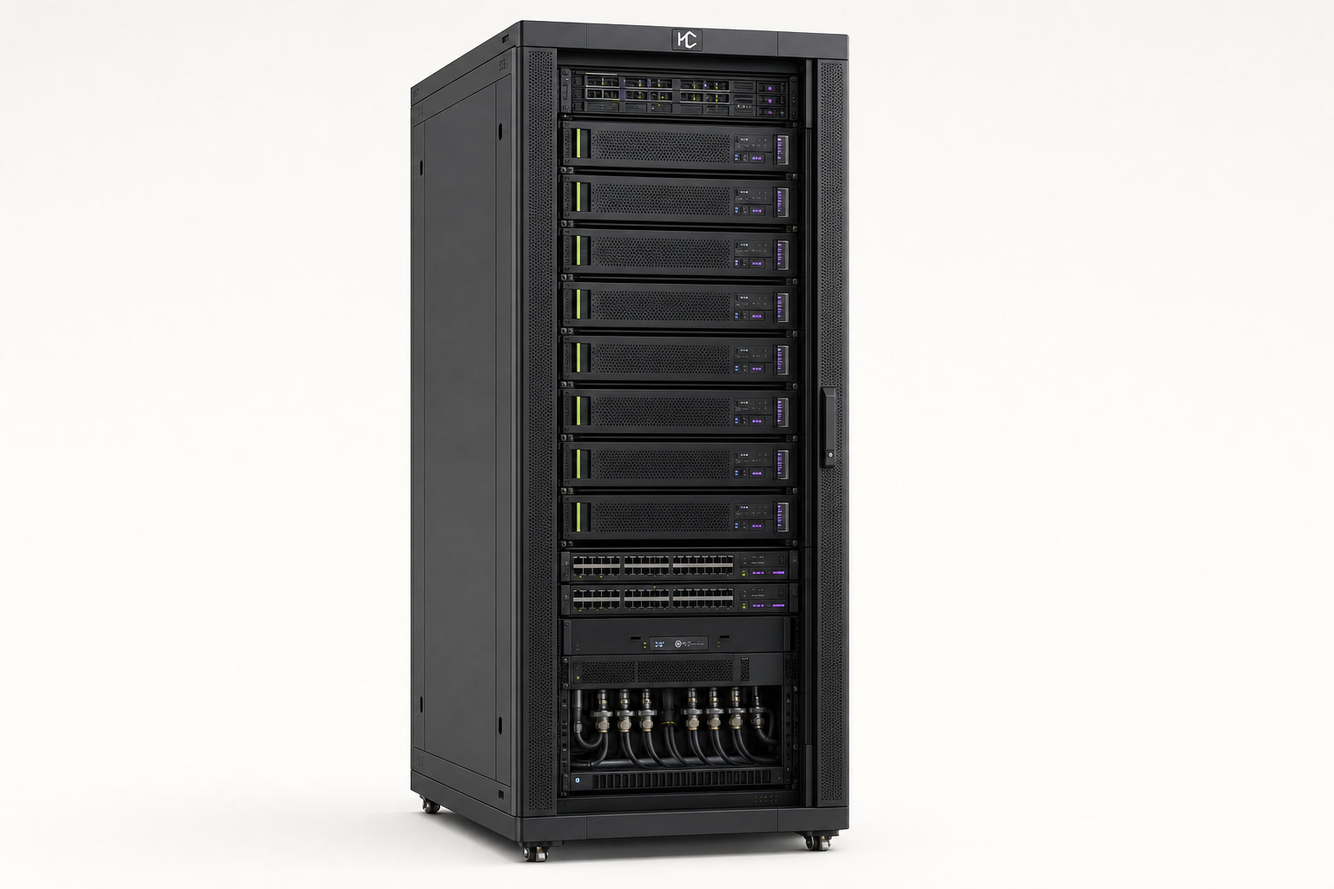
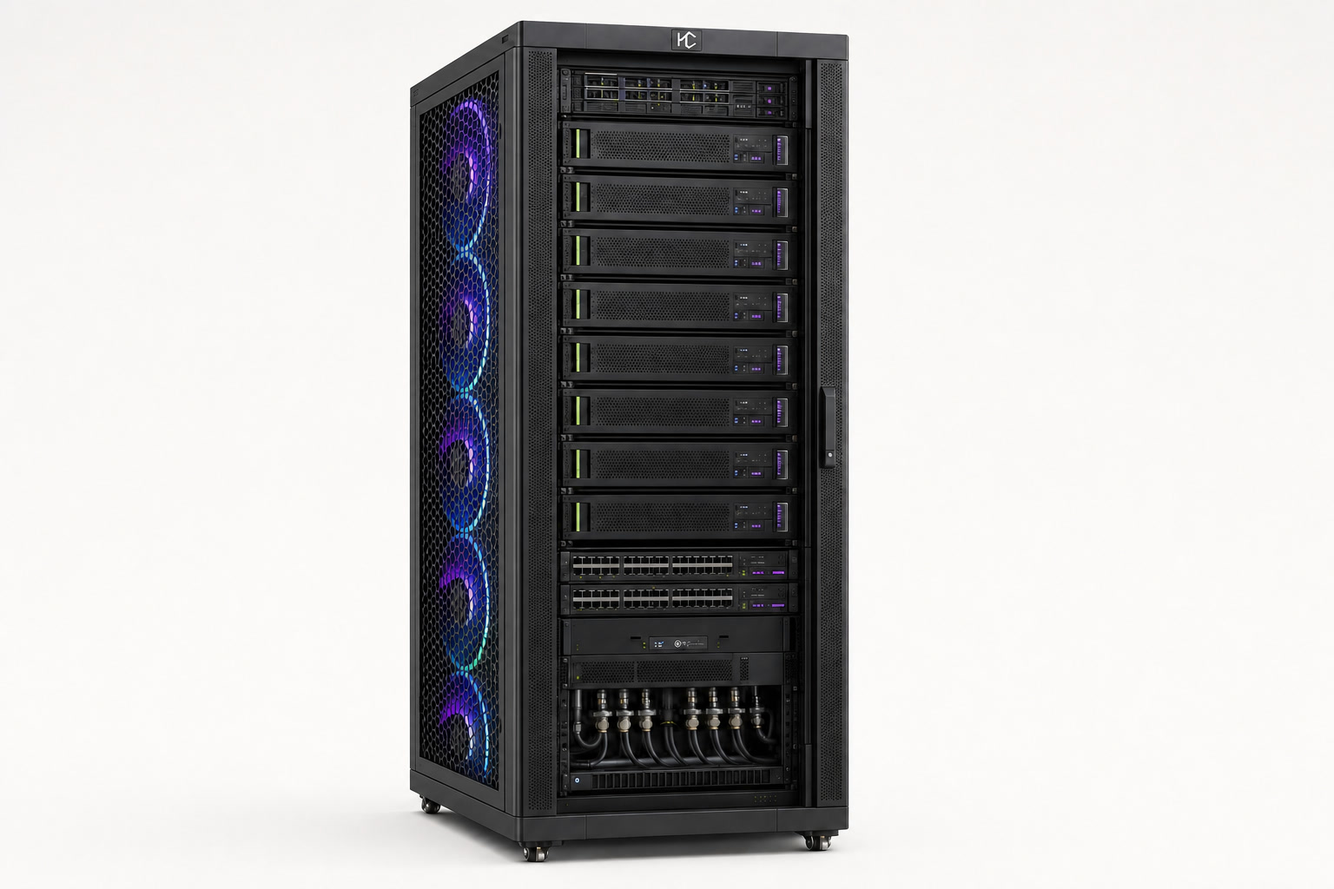
Add illuminated Galaxy cooling fans

diff --git a/bootstrap-studio/assets/style.css b/bootstrap-studio/assets/style.css
@@ -46,4 +46,4 @@
 @media(max-width:900px){.product-impact{padding:85px 24px}.product-impact-head{grid-template-columns:1fr;gap:24px}.product-impact-grid{grid-template-columns:1fr}.product-impact-grid article{min-height:240px;border-right:0;border-bottom:1px solid #1113;padding-left:0}.product-roadmap{grid-template-columns:1fr}.product-roadmap>div,.product-roadmap>a{min-height:150px}}
 .hardware-catalog,.nova-family{padding:120px 6vw;background:#e8e8e3;color:#09090a}.nova-family{background:#f2f1ec}.hardware-section-head{display:grid;grid-template-columns:190px 1.2fr .75fr;gap:5vw;align-items:start;margin-bottom:80px}.hardware-section-head>p{font:10px "Geist Mono";letter-spacing:.14em;color:#6d6e69}.hardware-section-head h2{font-size:clamp(48px,5.8vw,88px);line-height:.98;letter-spacing:-.065em;margin:0}.hardware-section-head>span{font-size:17px;line-height:1.75;color:#5e5f5a}.hardware-products{display:grid;grid-template-columns:repeat(2,1fr);gap:2px}.hardware-products article{background:#f7f7f3;display:flex;flex-direction:column}.hardware-image{aspect-ratio:1.45;background:#fff;overflow:hidden}.hardware-image img{width:100%;height:100%;object-fit:contain;padding:34px;display:block;transition:transform .45s}.hardware-products article:hover .hardware-image img{transform:scale(1.025)}.hardware-copy{padding:30px;display:flex;flex-direction:column;min-height:360px}.hardware-copy small{font:9px "Geist Mono";letter-spacing:.12em;color:#73746f}.hardware-copy h3{font-size:34px;margin:45px 0 15px}.hardware-copy p{color:#5e5f5a;line-height:1.65}.hardware-copy ul{padding:0;list-style:none;margin:25px 0}.hardware-copy li{border-top:1px solid #1112;padding:10px 0;font-size:12px}.hardware-copy a{margin-top:auto;color:#111;font-weight:650;font-size:12px}.hardware-compare{margin-top:110px}.hardware-compare .hardware-section-head{margin-bottom:55px}.hardware-compare table{width:100%;border-collapse:collapse;min-width:900px;background:#f7f7f3}.hardware-compare th,.hardware-compare td{text-align:left;border-top:1px solid #1113;padding:19px 18px;vertical-align:top}.hardware-compare thead th{font:10px "Geist Mono";letter-spacing:.08em;background:#111113;color:#f2f2ed}.hardware-compare tbody th{width:20%;font-size:13px}.hardware-compare tbody td{font-size:13px;color:#4f504c}.hardware-compare tbody tr:last-child>*{border-bottom:1px solid #1113}.hardware-disclaimer{font-size:11px;line-height:1.7;color:#777873;max-width:850px;margin:25px 0 0}.nova-family-images{display:grid;grid-template-columns:repeat(3,1fr);gap:2px}.nova-family-images figure{margin:0;background:#fff}.nova-family-images img{width:100%;height:350px;object-fit:contain;padding:46px;background:#fff;display:block}.nova-family-images figcaption{display:flex;justify-content:space-between;padding:22px 24px;border-top:1px solid #1112}.nova-family-images figcaption b{font-size:18px}.nova-family-images figcaption span{font-size:11px;color:#70716d}.nova-family .hardware-compare{margin-top:90px}
 @media(max-width:900px){.hardware-catalog,.nova-family{padding:85px 24px}.hardware-section-head{grid-template-columns:1fr;gap:24px;margin-bottom:50px}.hardware-products,.nova-family-images{grid-template-columns:1fr}.hardware-copy{min-height:330px}.hardware-compare{margin-top:75px}.nova-family-images figcaption{flex-direction:column;gap:8px}}
-.family-showcase{padding:120px 52px;background:#efefe9}.family-product-grid{display:grid;grid-template-columns:repeat(3,1fr);gap:2px}.family-product-grid-two{grid-template-columns:repeat(2,1fr)}.family-product-grid article{background:#fff}.family-product-image{height:380px;background:#fff;overflow:hidden}.family-product-image img{width:100%;height:100%;object-fit:contain;padding:38px;display:block;transition:transform .45s}.family-product-grid article:hover img{transform:scale(1.025)}.family-product-copy{padding:28px 30px 34px;border-top:1px solid #1112}.family-product-copy small{font:9px "Geist Mono";letter-spacing:.12em;color:#73746f}.family-product-copy h3{font-size:31px;line-height:1;margin:12px 0 16px}.family-product-copy p{font-size:14px;line-height:1.75;color:#555650;margin:0;max-width:560px}.family-showcase .hardware-compare{margin-top:90px}@media(max-width:900px){.family-showcase{padding:85px 24px}.family-product-grid,.family-product-grid-two{grid-template-columns:1fr}.family-product-image{height:290px}.family-product-image img{padding:28px}.nova-family-images img{height:260px;padding:30px}.hardware-image img{padding:24px}}.studio-hardware-detail-hero{background:#09090a}.studio-hardware-detail-hero .studio-visual{left:42%;background:#f6f5f0}.studio-hardware-detail-hero .studio-visual img{width:100%;height:100%;min-height:0;max-height:none;object-fit:contain;object-position:center;padding:64px 4vw 54px 2vw;filter:none}.studio-hardware-detail-hero .studio-visual:after{background:linear-gradient(90deg,#09090a 0%,#09090ad9 7%,#09090a3b 22%,transparent 38%)}.studio-hardware-detail-hero .studio-hero{padding-right:49%;background:linear-gradient(90deg,#09090a 0%,#09090af5 46%,#09090a99 63%,transparent 78%)}.studio-hardware-detail-hero .studio-hero h1{font-size:clamp(68px,8.5vw,132px);line-height:1.04;white-space:nowrap}.studio-hardware-detail-hero .studio-hero>p:last-child{max-width:560px}@media(max-width:900px){.studio-hardware-detail-hero .studio-visual{left:30%}.studio-hardware-detail-hero .studio-visual img{padding:80px 18px 48px 22%}.studio-hardware-detail-hero .studio-hero{padding-right:12%;background:linear-gradient(90deg,#09090afa 0%,#09090ad8 48%,#09090a55 82%,transparent 100%)}.studio-hardware-detail-hero .studio-hero h1{font-size:clamp(52px,13vw,88px);white-space:normal}}.product-logo-badge-rule{display:none}.hardware-image,.family-product-image,.nova-family-images figure{position:relative}.hardware-image:before,.family-product-image:before,.nova-family-images figure:before,.studio-hardware-detail-hero .studio-visual:before{content:"";position:absolute;z-index:4;width:52px;height:52px;top:22px;left:22px;border-radius:2px;background:#0d0d0e url("brand/logo-1.0.svg") center/34px 34px no-repeat;box-shadow:0 8px 24px #0002}.studio-hardware-detail-hero .studio-visual:before{top:100px;left:auto;right:32px;width:58px;height:58px;background-size:38px 38px}@media(max-width:900px){.hardware-image:before,.family-product-image:before,.nova-family-images figure:before{width:44px;height:44px;top:15px;left:15px;background-size:28px 28px}.studio-hardware-detail-hero .studio-visual:before{top:88px;right:18px;width:48px;height:48px;background-size:30px 30px}}.nav-software{position:relative}.nav-software-trigger{display:flex;align-items:center;gap:6px}.nav-software-trigger>span{font-size:12px;color:var(--acid);transition:transform .2s}.nav-software:hover .nav-software-trigger>span,.nav-software:focus-within .nav-software-trigger>span{transform:rotate(180deg)}.nav-software-menu{position:fixed;z-index:40;top:76px;left:0;right:0;padding:0 3.4vw;background:#09090afc;border-top:1px solid #ffffff26;border-bottom:1px solid #ffffff26;box-shadow:0 40px 90px #000b;display:grid;grid-template-columns:minmax(250px,.8fr) minmax(600px,2fr) minmax(230px,.7fr);opacity:0;visibility:hidden;transform:translateY(-12px);transition:opacity .18s,transform .18s,visibility .18s;backdrop-filter:blur(22px);-webkit-backdrop-filter:blur(22px)}.nav-software-menu:before{content:"";position:absolute;left:0;right:0;top:-30px;height:30px}.nav-software:hover .nav-software-menu,.nav-software:focus-within .nav-software-menu{opacity:1;visibility:visible;transform:none}.software-mega-intro{padding:44px 3.4vw 42px 0;border-right:1px solid #ffffff20}.software-mega-intro small,.software-mega-side>small{font:9px "Geist Mono";letter-spacing:.15em;color:var(--acid)}.software-mega-intro h2{font-size:clamp(36px,3.8vw,58px);line-height:.96;letter-spacing:-.06em;margin:27px 0}.software-mega-intro p,.software-mega-side p{font-size:12px;line-height:1.65;color:#92938f}.software-mega-intro>a,.software-mega-side>a{display:inline-block;margin-top:25px;font-size:10px;color:var(--acid);border-bottom:1px solid var(--acid);padding-bottom:6px}.software-mega-grid{display:grid;grid-template-columns:repeat(3,1fr);grid-template-rows:repeat(2,1fr)}.software-mega-grid>a{padding:28px 24px;border-right:1px solid #ffffff20;border-bottom:1px solid #ffffff20;display:flex;flex-direction:column;min-height:145px;color:#f0f1eb}.software-mega-grid>a:nth-child(n+4){border-bottom:0}.software-mega-grid>a:hover{background:#161618}.software-mega-grid span{font:9px "Geist Mono";color:#696a66}.software-mega-grid b{font-size:17px;margin:auto 0 10px}.software-mega-grid small{font-size:10px;line-height:1.45;color:#92938f}.software-mega-grid>a:hover b{color:var(--acid)}.software-mega-side{padding:42px 0 36px 28px}.software-mega-side h3{font-size:22px;line-height:1.18;margin:44px 0 16px}.software-manifesto,.software-stack-section,.software-capability,.software-kernel,.software-runtime,.software-tools,.software-deploy,.software-paths,.software-resources{padding:120px 6vw}.software-section-head{display:grid;grid-template-columns:180px 1.22fr .78fr;gap:5vw;align-items:start;margin-bottom:80px}.software-section-head>p,.software-lead>p,.software-resources>div:first-child>p{font:10px "Geist Mono";letter-spacing:.14em;color:#747570}.software-section-head h2,.software-lead h2,.software-resources>div:first-child h2{font-size:clamp(48px,5.9vw,90px);line-height:.98;letter-spacing:-.065em;margin:0}.software-section-head>span,.software-lead>span{font-size:17px;line-height:1.75;color:#61625e}.software-manifesto{background:#f0efe9;color:#0b0b0c}.software-lead{display:grid;grid-template-columns:180px 1.22fr .78fr;gap:5vw;align-items:start}.software-values{display:grid;grid-template-columns:repeat(4,1fr);margin-top:95px;border-top:1px solid #1113;border-bottom:1px solid #1113}.software-values article{min-height:310px;padding:28px;border-right:1px solid #1113;display:flex;flex-direction:column}.software-values article:first-child{padding-left:0}.software-values article:last-child{border-right:0}.software-values b{font:10px "Geist Mono";color:#777}.software-values h3{font-size:25px;margin:auto 0 18px}.software-values p{font-size:13px;line-height:1.7;color:#60615d}.software-stack-section{background:#111113;color:#f0f1eb}.software-stack-section .software-section-head>span{color:#a6a7a2}.software-stack-map{max-width:1160px;margin:auto;display:grid;gap:2px}.stack-input,.stack-hardware{display:flex;align-items:center;gap:10px;flex-wrap:wrap;padding:22px 25px;background:#242427}.stack-input b{font:10px "Geist Mono";letter-spacing:.12em;color:var(--acid);margin-right:auto}.stack-input span{font-size:11px;padding:9px 13px;border:1px solid #ffffff2b}.stack-layer-grid{display:grid;grid-template-columns:1fr 1fr;gap:2px}.stack-layer{padding:28px;background:#1a1a1d;border:1px solid #ffffff08}.stack-layer:hover{background:#202024}.stack-layer small{font:9px "Geist Mono";letter-spacing:.13em;color:var(--acid)}.stack-layer h3{font-size:28px;margin:40px 0 12px}.stack-layer p{font-size:13px;line-height:1.65;color:#9c9d98;max-width:580px}.stack-compiler{background:linear-gradient(110deg,#26212d,#171719)}.stack-system{text-align:center;padding:17px;background:#d8ff36;color:#09090a}.stack-system b{font:10px "Geist Mono";letter-spacing:.16em}.stack-hardware{padding:0;gap:2px;background:transparent}.stack-hardware span{flex:1;padding:24px;text-align:center;background:#2a2a2d;font:10px "Geist Mono";letter-spacing:.1em}.software-capability{background:#e8e8e3;color:#0b0b0c}.compiler-flow{display:grid;grid-template-columns:1fr auto 1fr auto 1fr auto 1fr;align-items:stretch}.compiler-flow>div{padding:28px 24px;background:#f7f7f3;min-height:240px;display:flex;flex-direction:column}.compiler-flow>i{font-style:normal;font-size:28px;align-self:center;padding:12px;color:#73746f}.compiler-flow b{font:10px "Geist Mono";color:#777}.compiler-flow h3{font-size:23px;margin:auto 0 13px}.compiler-flow p,.compiler-details p{font-size:12px;line-height:1.65;color:#62635f}.compiler-details{display:grid;grid-template-columns:repeat(3,1fr);margin-top:2px}.compiler-details article{padding:30px;background:#dcdcd6;border-right:2px solid #e8e8e3}.compiler-details h3{font-size:20px;margin:0 0 15px}.software-dual{display:grid;grid-template-columns:1fr 1fr;background:#0c0c0d;color:#f0f1eb}.software-copy,.software-code{padding:110px 6vw}.software-copy>p{font:10px "Geist Mono";letter-spacing:.14em;color:var(--acid)}.software-copy h2{font-size:clamp(46px,5.2vw,78px);line-height:1;letter-spacing:-.06em;margin:45px 0}.software-copy>span{font-size:16px;line-height:1.75;color:#b2b3ae}.software-copy ul{padding:0;margin:46px 0 0;list-style:none;border-top:1px solid #ffffff27}.software-copy li{padding:17px 0;border-bottom:1px solid #ffffff27;font-size:12px;color:#b5b6b1}.software-code{background:#17171a;display:flex;flex-direction:column;justify-content:center}.code-head{display:flex;justify-content:space-between;padding:15px 18px;background:#252529;border-bottom:1px solid #ffffff25}.code-head span,.code-head b{font:9px "Geist Mono";letter-spacing:.12em}.code-head b{color:var(--acid)}.software-code pre{margin:0;padding:32px;background:#111113;overflow:auto}.software-code code{font:14px/1.8 "Geist Mono",monospace;color:#d9dad5}.software-code small{margin-top:16px;color:#777;font-size:10px;line-height:1.5}.software-kernel{background:#f2f1ec;color:#0b0b0c}.kernel-pipeline{display:grid;grid-template-columns:1fr 90px 1fr 90px 1fr;align-items:center}.kernel-pipeline article{min-height:280px;padding:30px;background:#fff;display:flex;flex-direction:column}.kernel-pipeline article>b{font:10px "Geist Mono";letter-spacing:.14em;color:#777}.kernel-pipeline h3{font-size:24px;margin:auto 0 15px}.kernel-pipeline p{font-size:13px;line-height:1.7;color:#62635f}.kernel-pipeline>i{height:1px;background:#1116;position:relative}.kernel-pipeline>i:after{content:"";position:absolute;right:0;top:-4px;border-left:8px solid #1116;border-top:4px solid transparent;border-bottom:4px solid transparent}.kernel-levels{display:grid;grid-template-columns:repeat(3,1fr);margin-top:70px;background:#101012;color:#f0f1eb}.kernel-levels>div{min-height:250px;padding:28px;border-right:1px solid #ffffff24}.kernel-levels small{font:9px "Geist Mono";color:var(--acid);letter-spacing:.12em}.kernel-levels h3{font-size:25px;margin:65px 0 15px}.kernel-levels p{font-size:12px;line-height:1.65;color:#9d9e99}.software-runtime{background:#202023;color:#f0f1eb}.software-runtime .software-section-head>span{color:#aaa}.runtime-grid{display:grid;grid-template-columns:repeat(3,1fr);gap:2px}.runtime-grid article{min-height:285px;padding:30px;background:#151517;display:flex;flex-direction:column}.runtime-grid span{font:9px "Geist Mono";letter-spacing:.14em;color:var(--acid)}.runtime-grid h3{font-size:24px;margin:auto 0 15px}.runtime-grid p{font-size:12px;line-height:1.7;color:#9fa09b}.software-tools{background:#e9e9e4;color:#0b0b0c}.tools-console{display:grid;grid-template-columns:240px 1fr;background:#111113;color:#f0f1eb;min-height:470px}.console-sidebar{padding:25px;border-right:1px solid #ffffff20;display:flex;flex-direction:column;gap:8px}.console-sidebar b{font:10px "Geist Mono";color:var(--acid);margin-bottom:28px}.console-sidebar span{font-size:11px;padding:12px;color:#8f908b}.console-sidebar span.active{background:#29292d;color:#fff}.console-main{padding:45px;display:flex;flex-direction:column;justify-content:center}.graph-nodes{display:flex;align-items:center;justify-content:center}.graph-nodes span{padding:18px 21px;border:1px solid #d8ff3677;font:10px "Geist Mono"}.graph-nodes i{width:48px;height:1px;background:#d8ff3655}.timeline{height:46px;margin:70px 0 55px;display:flex;gap:3px;align-items:center;border-top:1px solid #ffffff18;border-bottom:1px solid #ffffff18}.timeline b{height:12px;background:linear-gradient(90deg,#d8ff36,#a28bff)}.console-metrics{display:grid;grid-template-columns:repeat(3,1fr);gap:2px}.console-metrics>div{padding:18px;background:#1e1e21}.console-metrics small{font:8px "Geist Mono";color:#888}.console-metrics strong{display:block;font-size:30px;margin:15px 0}.console-metrics span{font-size:9px;color:#777}.tool-cards{display:grid;grid-template-columns:repeat(4,1fr);margin-top:2px}.tool-cards article{padding:27px;background:#f7f7f3;border-right:2px solid #e9e9e4}.tool-cards h3{font-size:20px;margin:0 0 30px}.tool-cards p{font-size:12px;line-height:1.65;color:#62635f}.software-deploy{background:#101012;color:#f0f1eb}.software-deploy .software-section-head>span{color:#aaa}.deploy-flow{display:grid;grid-template-columns:repeat(4,1fr)}.deploy-flow article{min-height:310px;padding:28px;border:1px solid #ffffff22;border-right:0;display:flex;flex-direction:column}.deploy-flow article:last-child{border-right:1px solid #ffffff22}.deploy-flow b{font:10px "Geist Mono";color:var(--acid)}.deploy-flow h3{font-size:23px;margin:auto 0 15px}.deploy-flow p{font-size:12px;line-height:1.65;color:#9fa09b}.deploy-targets{display:grid;grid-template-columns:repeat(3,1fr);margin-top:75px}.deploy-targets>div{padding:30px;background:#1c1c1f;border-right:2px solid #101012}.deploy-targets small{font:9px "Geist Mono";color:var(--acid)}.deploy-targets h3{font-size:25px;margin:45px 0 14px}.deploy-targets p{font-size:12px;line-height:1.65;color:#9fa09b}.software-paths{background:#f0efe9;color:#0b0b0c}.software-paths>div:last-child{display:grid;grid-template-columns:repeat(4,1fr)}.software-paths article{min-height:330px;padding:28px;border-top:1px solid #1113;border-bottom:1px solid #1113;border-right:1px solid #1113;display:flex;flex-direction:column}.software-paths article:first-child{padding-left:0}.software-paths span{font:9px "Geist Mono";color:#777}.software-paths h3{font-size:24px;margin:auto 0 16px}.software-paths p{font-size:12px;line-height:1.65;color:#62635f}.software-paths b{font:10px "Geist Mono";color:#676863;margin-top:20px}.software-resources{background:#d8ff36;color:#09090a;display:grid;grid-template-columns:.85fr 1.25fr;gap:7vw}.software-resources>div:first-child h2{font-size:clamp(42px,4.8vw,72px);margin-top:38px}.resource-table>div{display:grid;grid-template-columns:1fr auto;gap:12px 30px;padding:24px 0;border-bottom:1px solid #1115}.resource-table b{font-size:17px}.resource-table span{font:9px "Geist Mono";padding:7px 10px;border:1px solid #1115}.resource-table p{grid-column:1/-1;font-size:12px;line-height:1.6;color:#45463f}.software-resources>a{grid-column:2;justify-self:start;font-size:11px;border-bottom:1px solid #111;padding-bottom:6px}.software-faq{background:#e8e8e3;color:#0b0b0c}@media(max-width:1100px){.nav-software-menu{grid-template-columns:.75fr 2fr}.software-mega-side{display:none}.software-values,.software-paths>div:last-child{grid-template-columns:repeat(2,1fr)}.compiler-flow{grid-template-columns:1fr 40px 1fr}.compiler-flow>i:nth-of-type(2),.compiler-flow>i:nth-of-type(2)+div,.compiler-flow>i:nth-of-type(3),.compiler-flow>i:nth-of-type(3)+div{margin-top:2px}.runtime-grid{grid-template-columns:repeat(2,1fr)}.tool-cards,.deploy-flow{grid-template-columns:repeat(2,1fr)}}@media(max-width:900px){.nav-software-menu{display:none}.software-manifesto,.software-stack-section,.software-capability,.software-kernel,.software-runtime,.software-tools,.software-deploy,.software-paths,.software-resources{padding:85px 24px}.software-section-head,.software-lead{grid-template-columns:1fr;gap:24px;margin-bottom:55px}.software-values,.software-paths>div:last-child,.compiler-details,.runtime-grid,.tool-cards,.deploy-flow,.deploy-targets{grid-template-columns:1fr}.software-values article,.software-paths article{min-height:235px;padding-left:0;border-right:0}.stack-layer-grid,.stack-hardware{grid-template-columns:1fr}.stack-hardware{display:grid}.compiler-flow{grid-template-columns:1fr}.compiler-flow>i{transform:rotate(90deg);justify-self:center}.software-dual{grid-template-columns:1fr}.software-copy,.software-code{padding:80px 24px}.kernel-pipeline{grid-template-columns:1fr}.kernel-pipeline>i{height:55px;width:1px;justify-self:center}.kernel-pipeline>i:after{right:-4px;top:auto;bottom:0;border-top:8px solid #1116;border-left:4px solid transparent;border-right:4px solid transparent;border-bottom:0}.kernel-levels{grid-template-columns:1fr}.kernel-levels>div{border-right:0;border-bottom:1px solid #ffffff24}.tools-console{grid-template-columns:1fr}.console-sidebar{display:none}.console-main{padding:30px 18px}.graph-nodes span{padding:13px 9px;font-size:8px}.graph-nodes i{width:18px}.console-metrics{grid-template-columns:1fr}.software-resources{grid-template-columns:1fr}.software-resources>a{grid-column:1}.software-section-nav{justify-content:flex-start}}.galaxy-hardware .family-product-copy h3{color:#0b0b0c}.galaxy-hardware .hardware-compare tbody th{color:#0b0b0c;font-weight:650}.family-showcase{color:#0b0b0c}
+.family-showcase{padding:120px 52px;background:#efefe9}.family-product-grid{display:grid;grid-template-columns:repeat(3,1fr);gap:2px}.family-product-grid-two{grid-template-columns:repeat(2,1fr)}.family-product-grid article{background:#fff}.family-product-image{height:380px;background:#fff;overflow:hidden}.family-product-image img{width:100%;height:100%;object-fit:contain;padding:38px;display:block;transition:transform .45s}.family-product-grid article:hover img{transform:scale(1.025)}.family-product-copy{padding:28px 30px 34px;border-top:1px solid #1112}.family-product-copy small{font:9px "Geist Mono";letter-spacing:.12em;color:#73746f}.family-product-copy h3{font-size:31px;line-height:1;margin:12px 0 16px}.family-product-copy p{font-size:14px;line-height:1.75;color:#555650;margin:0;max-width:560px}.family-showcase .hardware-compare{margin-top:90px}@media(max-width:900px){.family-showcase{padding:85px 24px}.family-product-grid,.family-product-grid-two{grid-template-columns:1fr}.family-product-image{height:290px}.family-product-image img{padding:28px}.nova-family-images img{height:260px;padding:30px}.hardware-image img{padding:24px}}.studio-hardware-detail-hero{background:#09090a}.studio-hardware-detail-hero .studio-visual{left:42%;background:#f6f5f0}.studio-hardware-detail-hero .studio-visual img{width:100%;height:100%;min-height:0;max-height:none;object-fit:contain;object-position:center;padding:64px 4vw 54px 2vw;filter:none}.studio-hardware-detail-hero .studio-visual:after{background:linear-gradient(90deg,#09090a 0%,#09090ad9 7%,#09090a3b 22%,transparent 38%)}.studio-hardware-detail-hero .studio-hero{padding-right:49%;background:linear-gradient(90deg,#09090a 0%,#09090af5 46%,#09090a99 63%,transparent 78%)}.studio-hardware-detail-hero .studio-hero h1{font-size:clamp(68px,8.5vw,132px);line-height:1.04;white-space:nowrap}.studio-hardware-detail-hero .studio-hero>p:last-child{max-width:560px}@media(max-width:900px){.studio-hardware-detail-hero .studio-visual{left:30%}.studio-hardware-detail-hero .studio-visual img{padding:80px 18px 48px 22%}.studio-hardware-detail-hero .studio-hero{padding-right:12%;background:linear-gradient(90deg,#09090afa 0%,#09090ad8 48%,#09090a55 82%,transparent 100%)}.studio-hardware-detail-hero .studio-hero h1{font-size:clamp(52px,13vw,88px);white-space:normal}}.product-logo-badge-rule{display:none}.hardware-image,.family-product-image,.nova-family-images figure{position:relative}.hardware-image:before,.family-product-image:before,.nova-family-images figure:before,.studio-hardware-detail-hero .studio-visual:before{content:"";position:absolute;z-index:4;width:52px;height:52px;top:22px;left:22px;border-radius:2px;background:#0d0d0e url("brand/logo-1.0.svg") center/34px 34px no-repeat;box-shadow:0 8px 24px #0002}.studio-hardware-detail-hero .studio-visual:before{top:100px;left:auto;right:32px;width:58px;height:58px;background-size:38px 38px}@media(max-width:900px){.hardware-image:before,.family-product-image:before,.nova-family-images figure:before{width:44px;height:44px;top:15px;left:15px;background-size:28px 28px}.studio-hardware-detail-hero .studio-visual:before{top:88px;right:18px;width:48px;height:48px;background-size:30px 30px}}.nav-software{position:relative}.nav-software-trigger{display:flex;align-items:center;gap:6px}.nav-software-trigger>span{font-size:12px;color:var(--acid);transition:transform .2s}.nav-software:hover .nav-software-trigger>span,.nav-software:focus-within .nav-software-trigger>span{transform:rotate(180deg)}.nav-software-menu{position:fixed;z-index:40;top:76px;left:0;right:0;padding:0 3.4vw;background:#09090afc;border-top:1px solid #ffffff26;border-bottom:1px solid #ffffff26;box-shadow:0 40px 90px #000b;display:grid;grid-template-columns:minmax(250px,.8fr) minmax(600px,2fr) minmax(230px,.7fr);opacity:0;visibility:hidden;transform:translateY(-12px);transition:opacity .18s,transform .18s,visibility .18s;backdrop-filter:blur(22px);-webkit-backdrop-filter:blur(22px)}.nav-software-menu:before{content:"";position:absolute;left:0;right:0;top:-30px;height:30px}.nav-software:hover .nav-software-menu,.nav-software:focus-within .nav-software-menu{opacity:1;visibility:visible;transform:none}.software-mega-intro{padding:44px 3.4vw 42px 0;border-right:1px solid #ffffff20}.software-mega-intro small,.software-mega-side>small{font:9px "Geist Mono";letter-spacing:.15em;color:var(--acid)}.software-mega-intro h2{font-size:clamp(36px,3.8vw,58px);line-height:.96;letter-spacing:-.06em;margin:27px 0}.software-mega-intro p,.software-mega-side p{font-size:12px;line-height:1.65;color:#92938f}.software-mega-intro>a,.software-mega-side>a{display:inline-block;margin-top:25px;font-size:10px;color:var(--acid);border-bottom:1px solid var(--acid);padding-bottom:6px}.software-mega-grid{display:grid;grid-template-columns:repeat(3,1fr);grid-template-rows:repeat(2,1fr)}.software-mega-grid>a{padding:28px 24px;border-right:1px solid #ffffff20;border-bottom:1px solid #ffffff20;display:flex;flex-direction:column;min-height:145px;color:#f0f1eb}.software-mega-grid>a:nth-child(n+4){border-bottom:0}.software-mega-grid>a:hover{background:#161618}.software-mega-grid span{font:9px "Geist Mono";color:#696a66}.software-mega-grid b{font-size:17px;margin:auto 0 10px}.software-mega-grid small{font-size:10px;line-height:1.45;color:#92938f}.software-mega-grid>a:hover b{color:var(--acid)}.software-mega-side{padding:42px 0 36px 28px}.software-mega-side h3{font-size:22px;line-height:1.18;margin:44px 0 16px}.software-manifesto,.software-stack-section,.software-capability,.software-kernel,.software-runtime,.software-tools,.software-deploy,.software-paths,.software-resources{padding:120px 6vw}.software-section-head{display:grid;grid-template-columns:180px 1.22fr .78fr;gap:5vw;align-items:start;margin-bottom:80px}.software-section-head>p,.software-lead>p,.software-resources>div:first-child>p{font:10px "Geist Mono";letter-spacing:.14em;color:#747570}.software-section-head h2,.software-lead h2,.software-resources>div:first-child h2{font-size:clamp(48px,5.9vw,90px);line-height:.98;letter-spacing:-.065em;margin:0}.software-section-head>span,.software-lead>span{font-size:17px;line-height:1.75;color:#61625e}.software-manifesto{background:#f0efe9;color:#0b0b0c}.software-lead{display:grid;grid-template-columns:180px 1.22fr .78fr;gap:5vw;align-items:start}.software-values{display:grid;grid-template-columns:repeat(4,1fr);margin-top:95px;border-top:1px solid #1113;border-bottom:1px solid #1113}.software-values article{min-height:310px;padding:28px;border-right:1px solid #1113;display:flex;flex-direction:column}.software-values article:first-child{padding-left:0}.software-values article:last-child{border-right:0}.software-values b{font:10px "Geist Mono";color:#777}.software-values h3{font-size:25px;margin:auto 0 18px}.software-values p{font-size:13px;line-height:1.7;color:#60615d}.software-stack-section{background:#111113;color:#f0f1eb}.software-stack-section .software-section-head>span{color:#a6a7a2}.software-stack-map{max-width:1160px;margin:auto;display:grid;gap:2px}.stack-input,.stack-hardware{display:flex;align-items:center;gap:10px;flex-wrap:wrap;padding:22px 25px;background:#242427}.stack-input b{font:10px "Geist Mono";letter-spacing:.12em;color:var(--acid);margin-right:auto}.stack-input span{font-size:11px;padding:9px 13px;border:1px solid #ffffff2b}.stack-layer-grid{display:grid;grid-template-columns:1fr 1fr;gap:2px}.stack-layer{padding:28px;background:#1a1a1d;border:1px solid #ffffff08}.stack-layer:hover{background:#202024}.stack-layer small{font:9px "Geist Mono";letter-spacing:.13em;color:var(--acid)}.stack-layer h3{font-size:28px;margin:40px 0 12px}.stack-layer p{font-size:13px;line-height:1.65;color:#9c9d98;max-width:580px}.stack-compiler{background:linear-gradient(110deg,#26212d,#171719)}.stack-system{text-align:center;padding:17px;background:#d8ff36;color:#09090a}.stack-system b{font:10px "Geist Mono";letter-spacing:.16em}.stack-hardware{padding:0;gap:2px;background:transparent}.stack-hardware span{flex:1;padding:24px;text-align:center;background:#2a2a2d;font:10px "Geist Mono";letter-spacing:.1em}.software-capability{background:#e8e8e3;color:#0b0b0c}.compiler-flow{display:grid;grid-template-columns:1fr auto 1fr auto 1fr auto 1fr;align-items:stretch}.compiler-flow>div{padding:28px 24px;background:#f7f7f3;min-height:240px;display:flex;flex-direction:column}.compiler-flow>i{font-style:normal;font-size:28px;align-self:center;padding:12px;color:#73746f}.compiler-flow b{font:10px "Geist Mono";color:#777}.compiler-flow h3{font-size:23px;margin:auto 0 13px}.compiler-flow p,.compiler-details p{font-size:12px;line-height:1.65;color:#62635f}.compiler-details{display:grid;grid-template-columns:repeat(3,1fr);margin-top:2px}.compiler-details article{padding:30px;background:#dcdcd6;border-right:2px solid #e8e8e3}.compiler-details h3{font-size:20px;margin:0 0 15px}.software-dual{display:grid;grid-template-columns:1fr 1fr;background:#0c0c0d;color:#f0f1eb}.software-copy,.software-code{padding:110px 6vw}.software-copy>p{font:10px "Geist Mono";letter-spacing:.14em;color:var(--acid)}.software-copy h2{font-size:clamp(46px,5.2vw,78px);line-height:1;letter-spacing:-.06em;margin:45px 0}.software-copy>span{font-size:16px;line-height:1.75;color:#b2b3ae}.software-copy ul{padding:0;margin:46px 0 0;list-style:none;border-top:1px solid #ffffff27}.software-copy li{padding:17px 0;border-bottom:1px solid #ffffff27;font-size:12px;color:#b5b6b1}.software-code{background:#17171a;display:flex;flex-direction:column;justify-content:center}.code-head{display:flex;justify-content:space-between;padding:15px 18px;background:#252529;border-bottom:1px solid #ffffff25}.code-head span,.code-head b{font:9px "Geist Mono";letter-spacing:.12em}.code-head b{color:var(--acid)}.software-code pre{margin:0;padding:32px;background:#111113;overflow:auto}.software-code code{font:14px/1.8 "Geist Mono",monospace;color:#d9dad5}.software-code small{margin-top:16px;color:#777;font-size:10px;line-height:1.5}.software-kernel{background:#f2f1ec;color:#0b0b0c}.kernel-pipeline{display:grid;grid-template-columns:1fr 90px 1fr 90px 1fr;align-items:center}.kernel-pipeline article{min-height:280px;padding:30px;background:#fff;display:flex;flex-direction:column}.kernel-pipeline article>b{font:10px "Geist Mono";letter-spacing:.14em;color:#777}.kernel-pipeline h3{font-size:24px;margin:auto 0 15px}.kernel-pipeline p{font-size:13px;line-height:1.7;color:#62635f}.kernel-pipeline>i{height:1px;background:#1116;position:relative}.kernel-pipeline>i:after{content:"";position:absolute;right:0;top:-4px;border-left:8px solid #1116;border-top:4px solid transparent;border-bottom:4px solid transparent}.kernel-levels{display:grid;grid-template-columns:repeat(3,1fr);margin-top:70px;background:#101012;color:#f0f1eb}.kernel-levels>div{min-height:250px;padding:28px;border-right:1px solid #ffffff24}.kernel-levels small{font:9px "Geist Mono";color:var(--acid);letter-spacing:.12em}.kernel-levels h3{font-size:25px;margin:65px 0 15px}.kernel-levels p{font-size:12px;line-height:1.65;color:#9d9e99}.software-runtime{background:#202023;color:#f0f1eb}.software-runtime .software-section-head>span{color:#aaa}.runtime-grid{display:grid;grid-template-columns:repeat(3,1fr);gap:2px}.runtime-grid article{min-height:285px;padding:30px;background:#151517;display:flex;flex-direction:column}.runtime-grid span{font:9px "Geist Mono";letter-spacing:.14em;color:var(--acid)}.runtime-grid h3{font-size:24px;margin:auto 0 15px}.runtime-grid p{font-size:12px;line-height:1.7;color:#9fa09b}.software-tools{background:#e9e9e4;color:#0b0b0c}.tools-console{display:grid;grid-template-columns:240px 1fr;background:#111113;color:#f0f1eb;min-height:470px}.console-sidebar{padding:25px;border-right:1px solid #ffffff20;display:flex;flex-direction:column;gap:8px}.console-sidebar b{font:10px "Geist Mono";color:var(--acid);margin-bottom:28px}.console-sidebar span{font-size:11px;padding:12px;color:#8f908b}.console-sidebar span.active{background:#29292d;color:#fff}.console-main{padding:45px;display:flex;flex-direction:column;justify-content:center}.graph-nodes{display:flex;align-items:center;justify-content:center}.graph-nodes span{padding:18px 21px;border:1px solid #d8ff3677;font:10px "Geist Mono"}.graph-nodes i{width:48px;height:1px;background:#d8ff3655}.timeline{height:46px;margin:70px 0 55px;display:flex;gap:3px;align-items:center;border-top:1px solid #ffffff18;border-bottom:1px solid #ffffff18}.timeline b{height:12px;background:linear-gradient(90deg,#d8ff36,#a28bff)}.console-metrics{display:grid;grid-template-columns:repeat(3,1fr);gap:2px}.console-metrics>div{padding:18px;background:#1e1e21}.console-metrics small{font:8px "Geist Mono";color:#888}.console-metrics strong{display:block;font-size:30px;margin:15px 0}.console-metrics span{font-size:9px;color:#777}.tool-cards{display:grid;grid-template-columns:repeat(4,1fr);margin-top:2px}.tool-cards article{padding:27px;background:#f7f7f3;border-right:2px solid #e9e9e4}.tool-cards h3{font-size:20px;margin:0 0 30px}.tool-cards p{font-size:12px;line-height:1.65;color:#62635f}.software-deploy{background:#101012;color:#f0f1eb}.software-deploy .software-section-head>span{color:#aaa}.deploy-flow{display:grid;grid-template-columns:repeat(4,1fr)}.deploy-flow article{min-height:310px;padding:28px;border:1px solid #ffffff22;border-right:0;display:flex;flex-direction:column}.deploy-flow article:last-child{border-right:1px solid #ffffff22}.deploy-flow b{font:10px "Geist Mono";color:var(--acid)}.deploy-flow h3{font-size:23px;margin:auto 0 15px}.deploy-flow p{font-size:12px;line-height:1.65;color:#9fa09b}.deploy-targets{display:grid;grid-template-columns:repeat(3,1fr);margin-top:75px}.deploy-targets>div{padding:30px;background:#1c1c1f;border-right:2px solid #101012}.deploy-targets small{font:9px "Geist Mono";color:var(--acid)}.deploy-targets h3{font-size:25px;margin:45px 0 14px}.deploy-targets p{font-size:12px;line-height:1.65;color:#9fa09b}.software-paths{background:#f0efe9;color:#0b0b0c}.software-paths>div:last-child{display:grid;grid-template-columns:repeat(4,1fr)}.software-paths article{min-height:330px;padding:28px;border-top:1px solid #1113;border-bottom:1px solid #1113;border-right:1px solid #1113;display:flex;flex-direction:column}.software-paths article:first-child{padding-left:0}.software-paths span{font:9px "Geist Mono";color:#777}.software-paths h3{font-size:24px;margin:auto 0 16px}.software-paths p{font-size:12px;line-height:1.65;color:#62635f}.software-paths b{font:10px "Geist Mono";color:#676863;margin-top:20px}.software-resources{background:#d8ff36;color:#09090a;display:grid;grid-template-columns:.85fr 1.25fr;gap:7vw}.software-resources>div:first-child h2{font-size:clamp(42px,4.8vw,72px);margin-top:38px}.resource-table>div{display:grid;grid-template-columns:1fr auto;gap:12px 30px;padding:24px 0;border-bottom:1px solid #1115}.resource-table b{font-size:17px}.resource-table span{font:9px "Geist Mono";padding:7px 10px;border:1px solid #1115}.resource-table p{grid-column:1/-1;font-size:12px;line-height:1.6;color:#45463f}.software-resources>a{grid-column:2;justify-self:start;font-size:11px;border-bottom:1px solid #111;padding-bottom:6px}.software-faq{background:#e8e8e3;color:#0b0b0c}@media(max-width:1100px){.nav-software-menu{grid-template-columns:.75fr 2fr}.software-mega-side{display:none}.software-values,.software-paths>div:last-child{grid-template-columns:repeat(2,1fr)}.compiler-flow{grid-template-columns:1fr 40px 1fr}.compiler-flow>i:nth-of-type(2),.compiler-flow>i:nth-of-type(2)+div,.compiler-flow>i:nth-of-type(3),.compiler-flow>i:nth-of-type(3)+div{margin-top:2px}.runtime-grid{grid-template-columns:repeat(2,1fr)}.tool-cards,.deploy-flow{grid-template-columns:repeat(2,1fr)}}@media(max-width:900px){.nav-software-menu{display:none}.software-manifesto,.software-stack-section,.software-capability,.software-kernel,.software-runtime,.software-tools,.software-deploy,.software-paths,.software-resources{padding:85px 24px}.software-section-head,.software-lead{grid-template-columns:1fr;gap:24px;margin-bottom:55px}.software-values,.software-paths>div:last-child,.compiler-details,.runtime-grid,.tool-cards,.deploy-flow,.deploy-targets{grid-template-columns:1fr}.software-values article,.software-paths article{min-height:235px;padding-left:0;border-right:0}.stack-layer-grid,.stack-hardware{grid-template-columns:1fr}.stack-hardware{display:grid}.compiler-flow{grid-template-columns:1fr}.compiler-flow>i{transform:rotate(90deg);justify-self:center}.software-dual{grid-template-columns:1fr}.software-copy,.software-code{padding:80px 24px}.kernel-pipeline{grid-template-columns:1fr}.kernel-pipeline>i{height:55px;width:1px;justify-self:center}.kernel-pipeline>i:after{right:-4px;top:auto;bottom:0;border-top:8px solid #1116;border-left:4px solid transparent;border-right:4px solid transparent;border-bottom:0}.kernel-levels{grid-template-columns:1fr}.kernel-levels>div{border-right:0;border-bottom:1px solid #ffffff24}.tools-console{grid-template-columns:1fr}.console-sidebar{display:none}.console-main{padding:30px 18px}.graph-nodes span{padding:13px 9px;font-size:8px}.graph-nodes i{width:18px}.console-metrics{grid-template-columns:1fr}.software-resources{grid-template-columns:1fr}.software-resources>a{grid-column:1}.software-section-nav{justify-content:flex-start}}.galaxy-hardware .family-product-copy h3{color:#0b0b0c}.galaxy-hardware .hardware-compare tbody th{color:#0b0b0c;font-weight:650}.family-showcase{color:#0b0b0c}html[lang="zh-CN"] .studio-galaxy #overview .studio-insight-head h2{white-space:nowrap;font-size:clamp(32px,4.4vw,70px)}@media(max-width:900px){html[lang="zh-CN"] .studio-galaxy #overview .studio-insight-head h2{font-size:clamp(27px,8vw,38px)}}
